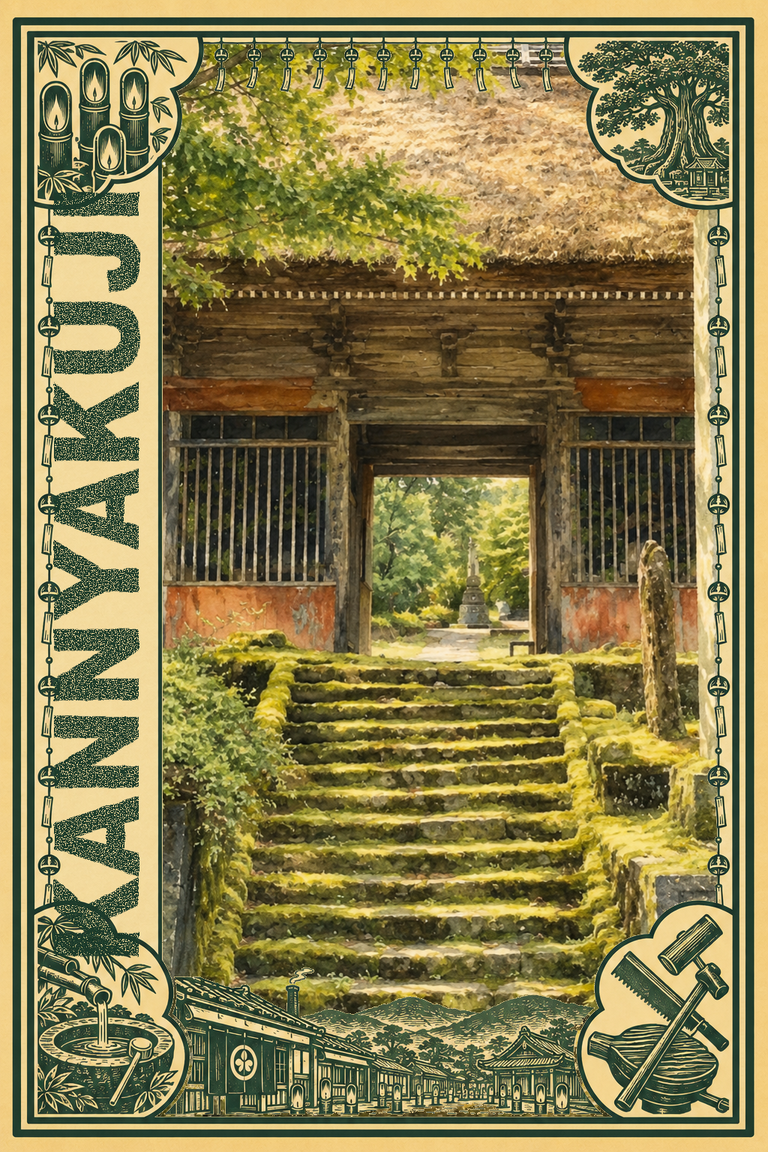
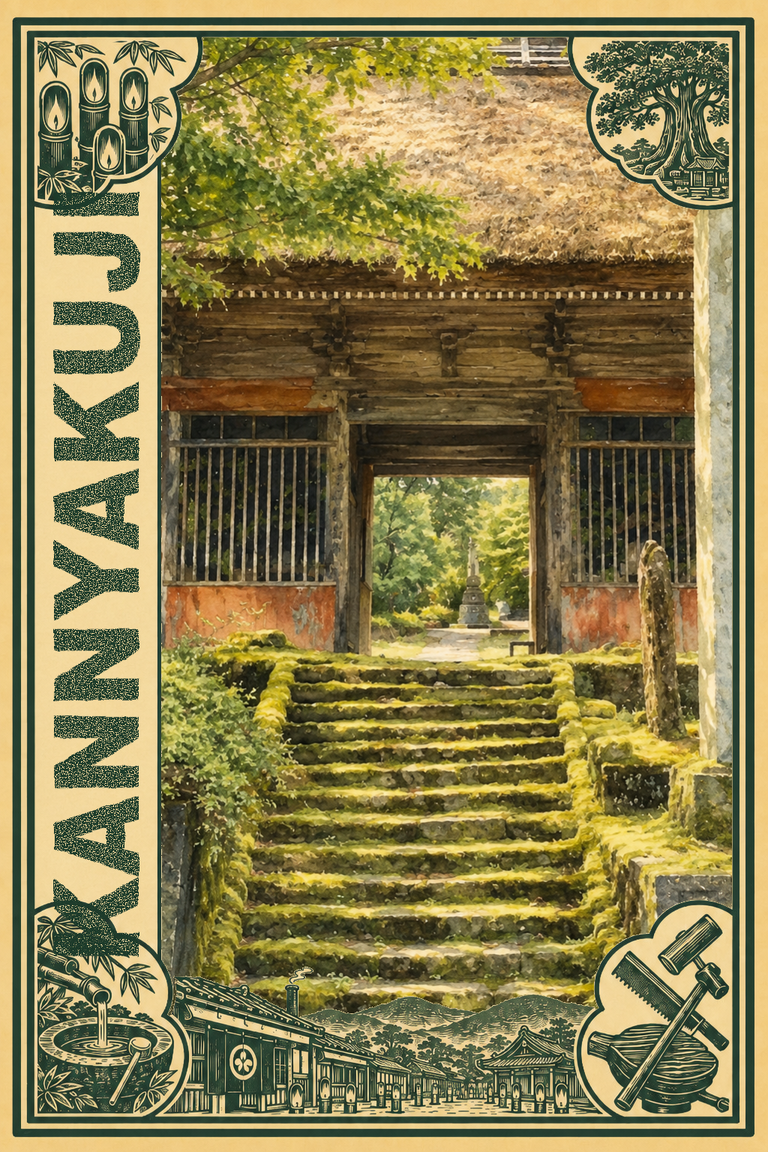
三島フレーム風鈴除去: frame_mishima風鈴なし版に差し替え＋全10枚(5スポット通常＋豪華)を元アートで再合成（上まで絵・風鈴なし・sw v173）

Changed region(s): [[0.0312, 0.0312, 0.9688, 1.0]]

diff --git a/sw.js b/sw.js
@@ -13,7 +13,7 @@
  */
 "use strict";
 
-var CACHE_VERSION = "v172";
+var CACHE_VERSION = "v173";
 var CACHE_NAME = "nagaoka-tanken-" + CACHE_VERSION;
 
 // SW自身の場所を基準に相対パスで解決（GitHub Pagesのサブパス配下でも正しく動くように）
